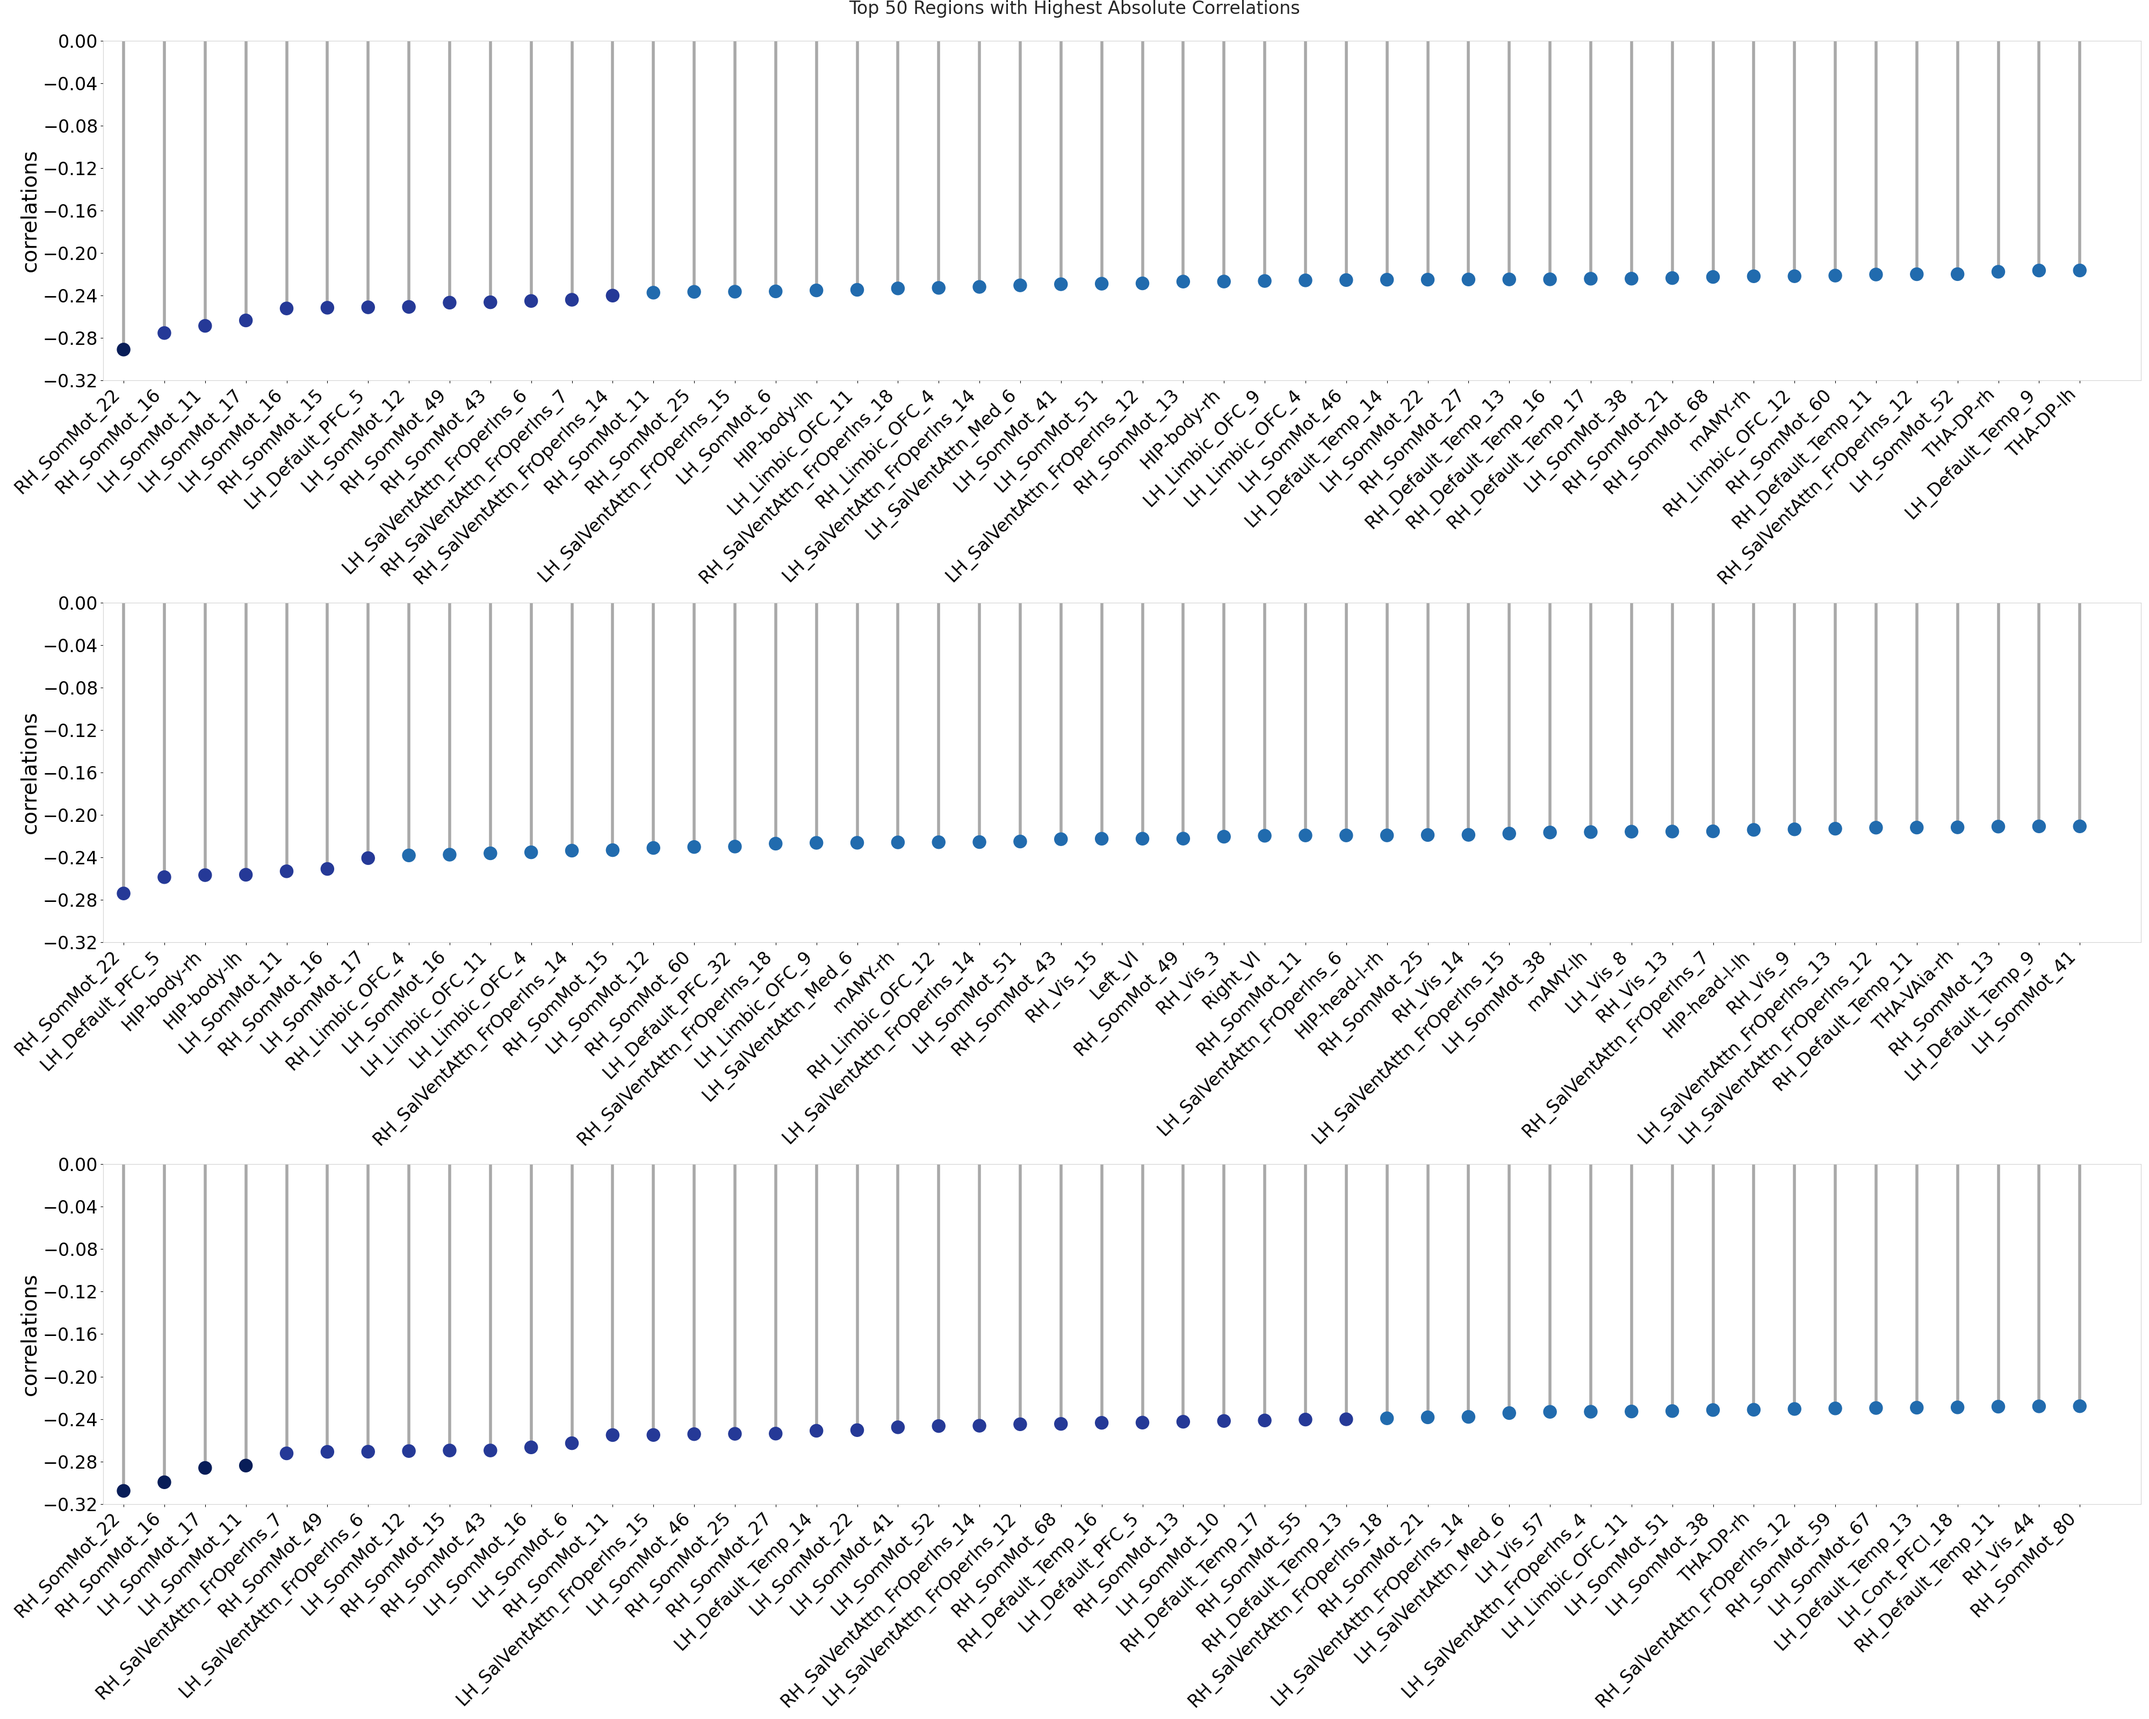
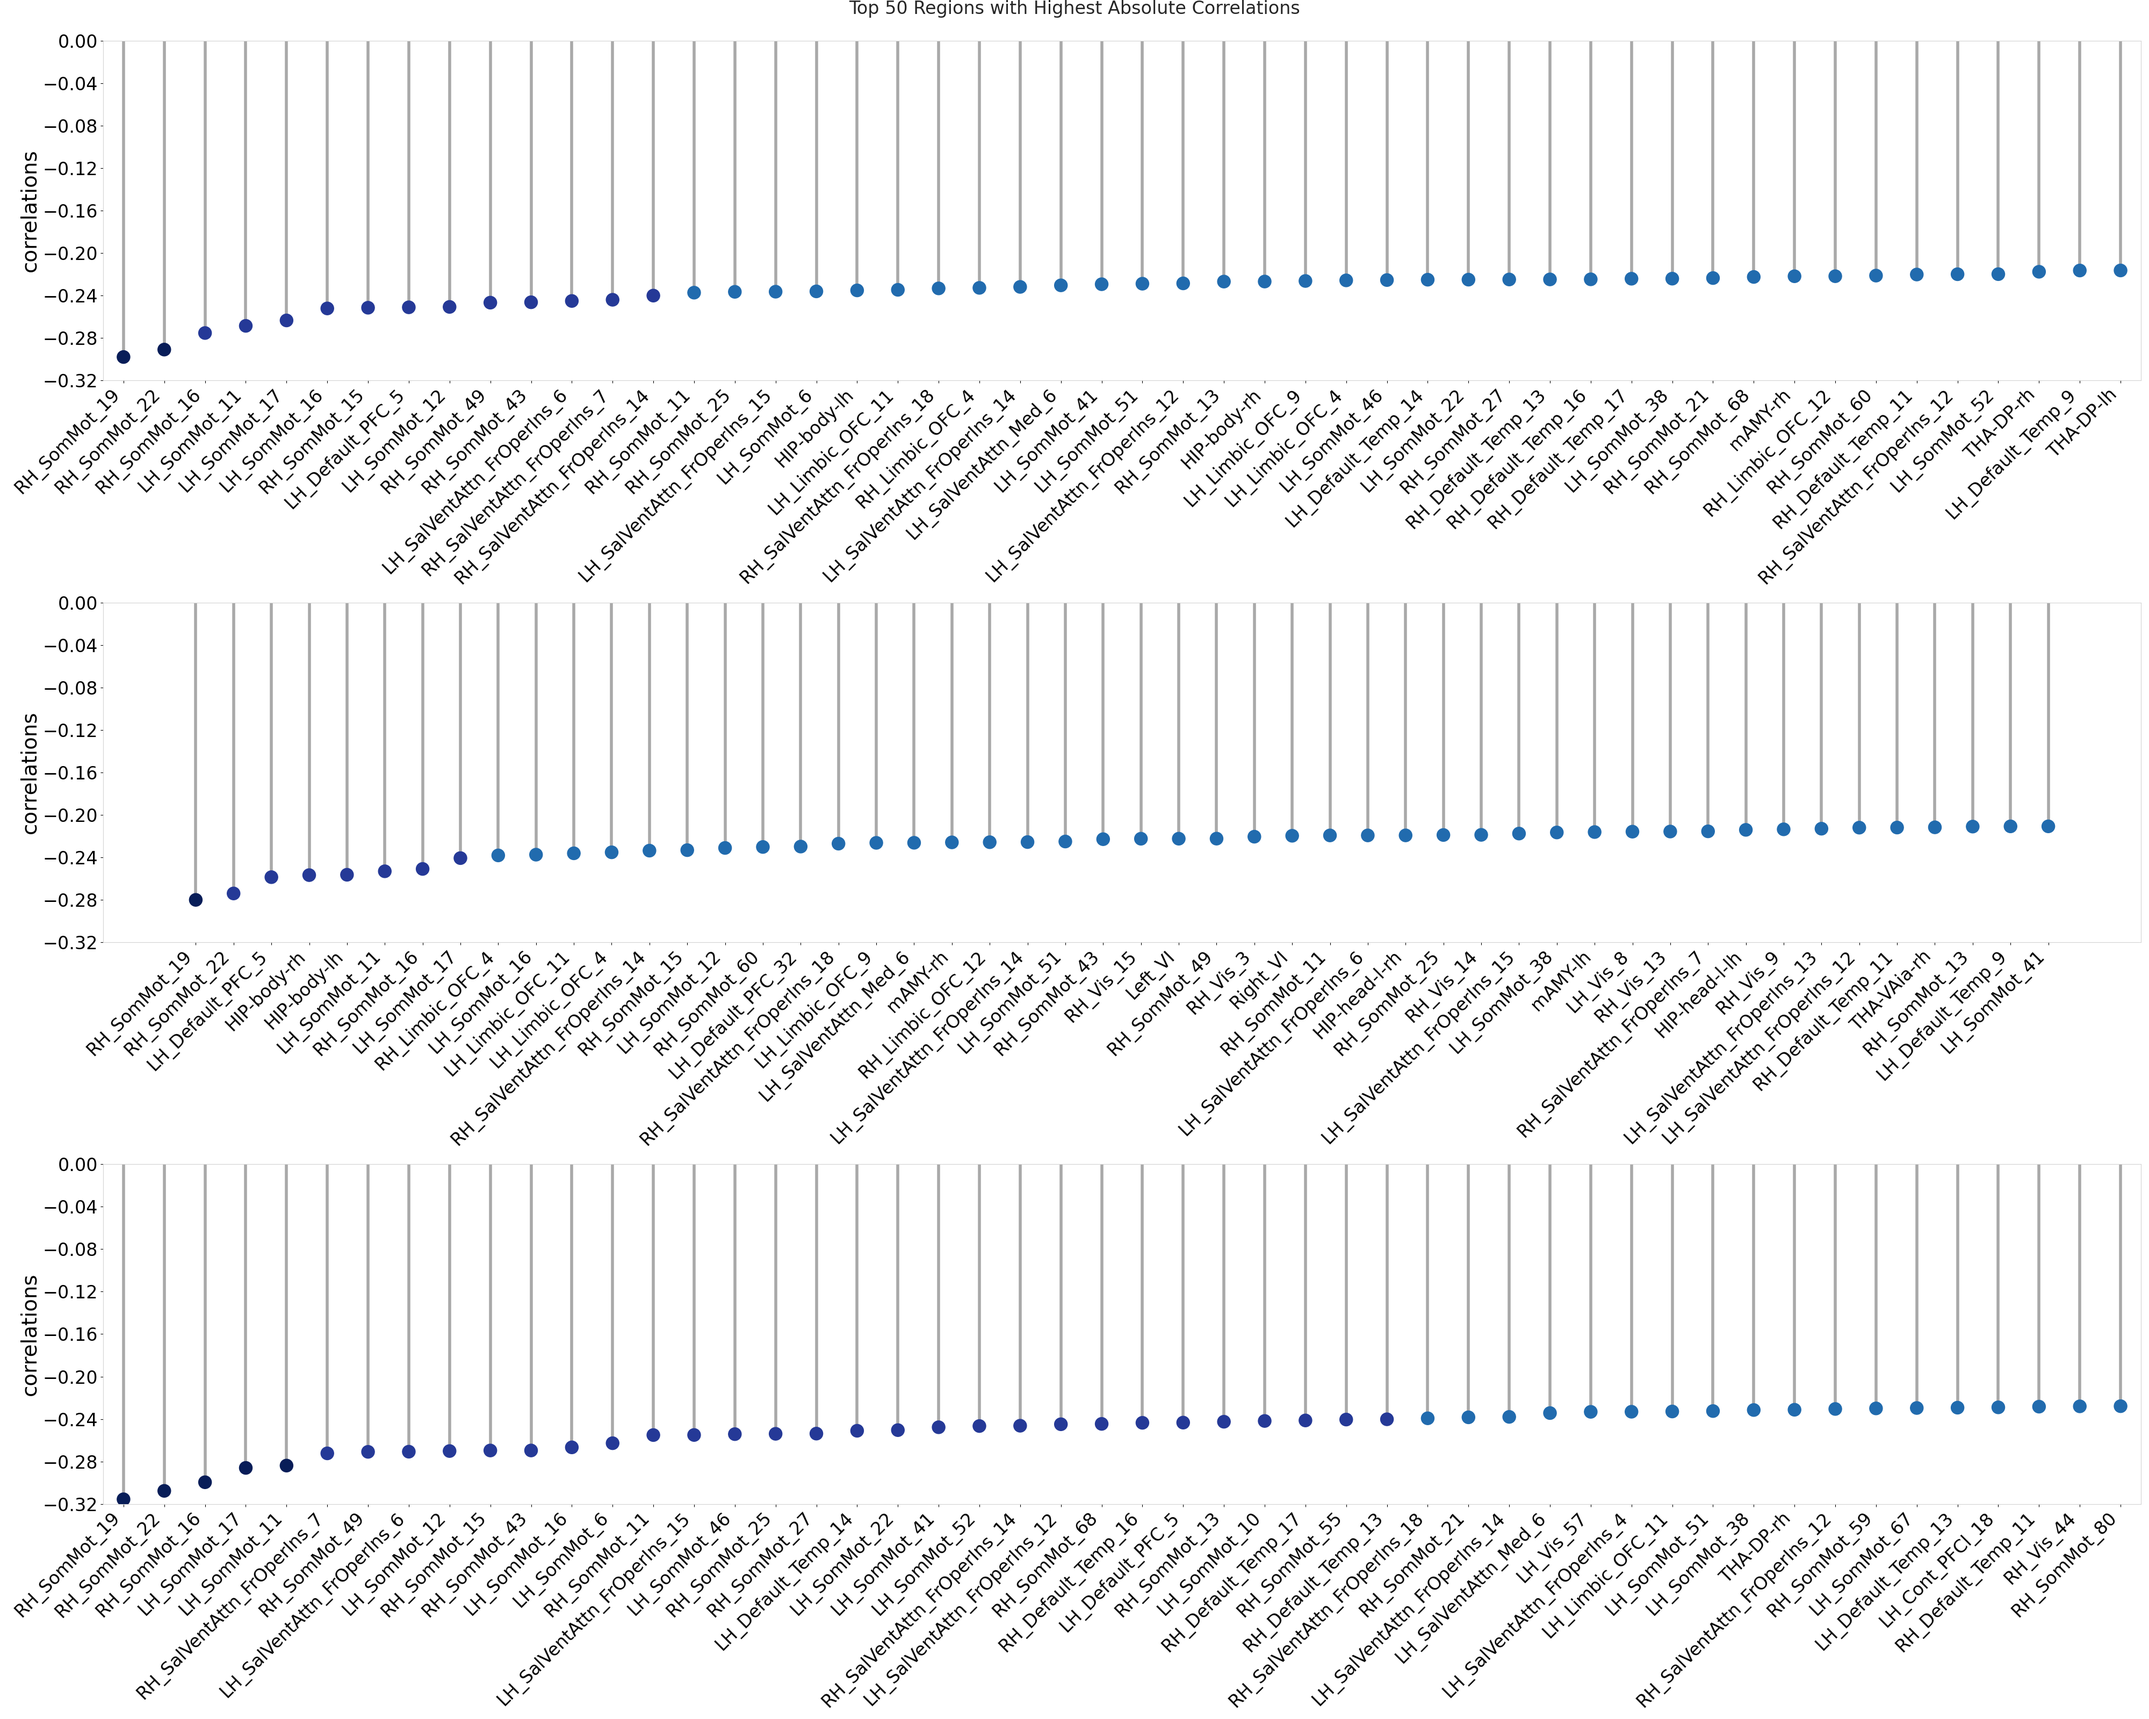
Plot bars for regions

diff --git a/exec/8_evaluate_trained_models_on_brain/4_plot_correlations_data/plot_all_genders_delta_hgs_regions_correlations_results_top_regions.py b/exec/8_evaluate_trained_models_on_brain/4_plot_correlations_data/plot_all_genders_delta_hgs_regions_correlations_results_top_regions.py
@@ -241,15 +241,15 @@ ax[0].set_xticks(np.arange(len(top_corr_both_gender)))
 ax[0].set_xticklabels(top_corr_both_gender['regions'], rotation=45, ha='right', fontsize=24)
 # Step 3: Adjust the x-axis limits to start closer to the y-axis
 # Set the x-axis limits to start from 0.5 and end at len(regions) - 0.5
-ax[0].set_xlim(0.5, len(top_corr_both_gender) + 0.5)
+ax[0].set_xlim(-0.5, len(top_corr_both_gender) - 0.5)
 
 ax[1].set_xticks(np.arange(len(top_corr_male)))
 ax[1].set_xticklabels(top_corr_male['regions'], rotation=45, ha='right', fontsize=24)
-ax[1].set_xlim(0.5, len(top_corr_male) + 0.5)
+ax[0].set_xlim(-0.5, len(top_corr_male) - 0.5)
 
 ax[2].set_xticks(np.arange(len(top_corr_female)))
 ax[2].set_xticklabels(top_corr_female['regions'], rotation=45, ha='right', fontsize=24)
-ax[2].set_xlim(0.5, len(top_corr_female) + 0.5)
+ax[2].set_xlim(-0.5, len(top_corr_female) - 0.5)
 
 ###############################################################################
 if corr_target == "hgs_corrected_delta":

diff --git a/exec/8_evaluate_trained_models_on_brain/4_plot_correlations_data/plot_all_genders_true_hgs_regions_correlations_results.py b/exec/8_evaluate_trained_models_on_brain/4_plot_correlations_data/plot_all_genders_true_hgs_regions_correlations_results.py
@@ -234,15 +234,15 @@ for bar in ax[2].patches:
 # Adjust x-tick positions and labels for all subplots
 ax[0].set_xticks(np.arange(len(top_corr_both_gender)))
 ax[0].set_xticklabels(top_corr_both_gender['regions'], rotation=45, ha='right', fontsize=24)
-ax[0].set_xlim(0.5, len(top_corr_both_gender) + 0.5)
+ax[0].set_xlim(-0.5, len(top_corr_both_gender) - 0.5)
 
 ax[1].set_xticks(np.arange(len(top_corr_male)))
 ax[1].set_xticklabels(top_corr_male['regions'], rotation=45, ha='right', fontsize=24)
-ax[1].set_xlim(0.5, len(top_corr_male) + 0.5)
+ax[0].set_xlim(-0.5, len(top_corr_male) - 0.5)
 
 ax[2].set_xticks(np.arange(len(top_corr_female)))
 ax[2].set_xticklabels(top_corr_female['regions'], rotation=45, ha='right', fontsize=24)
-ax[2].set_xlim(0.5, len(top_corr_female) + 0.5)
+ax[0].set_xlim(-0.5, len(top_corr_female) - 0.5)
 
 ###############################################################################
 if corr_target == "hgs_true":
